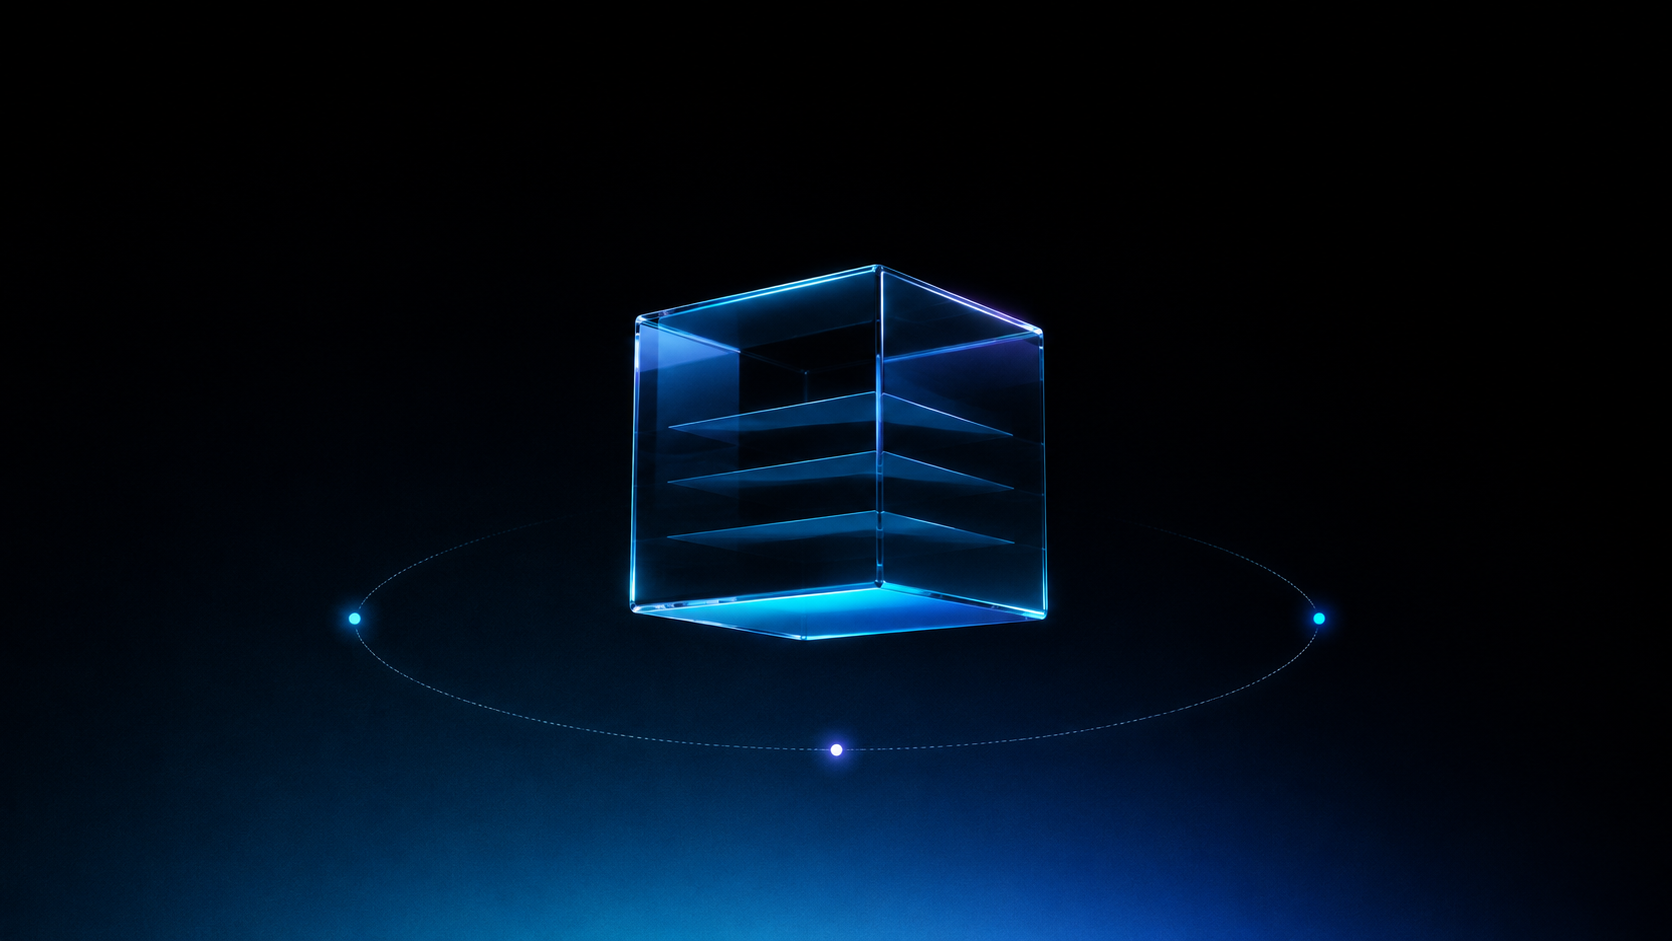
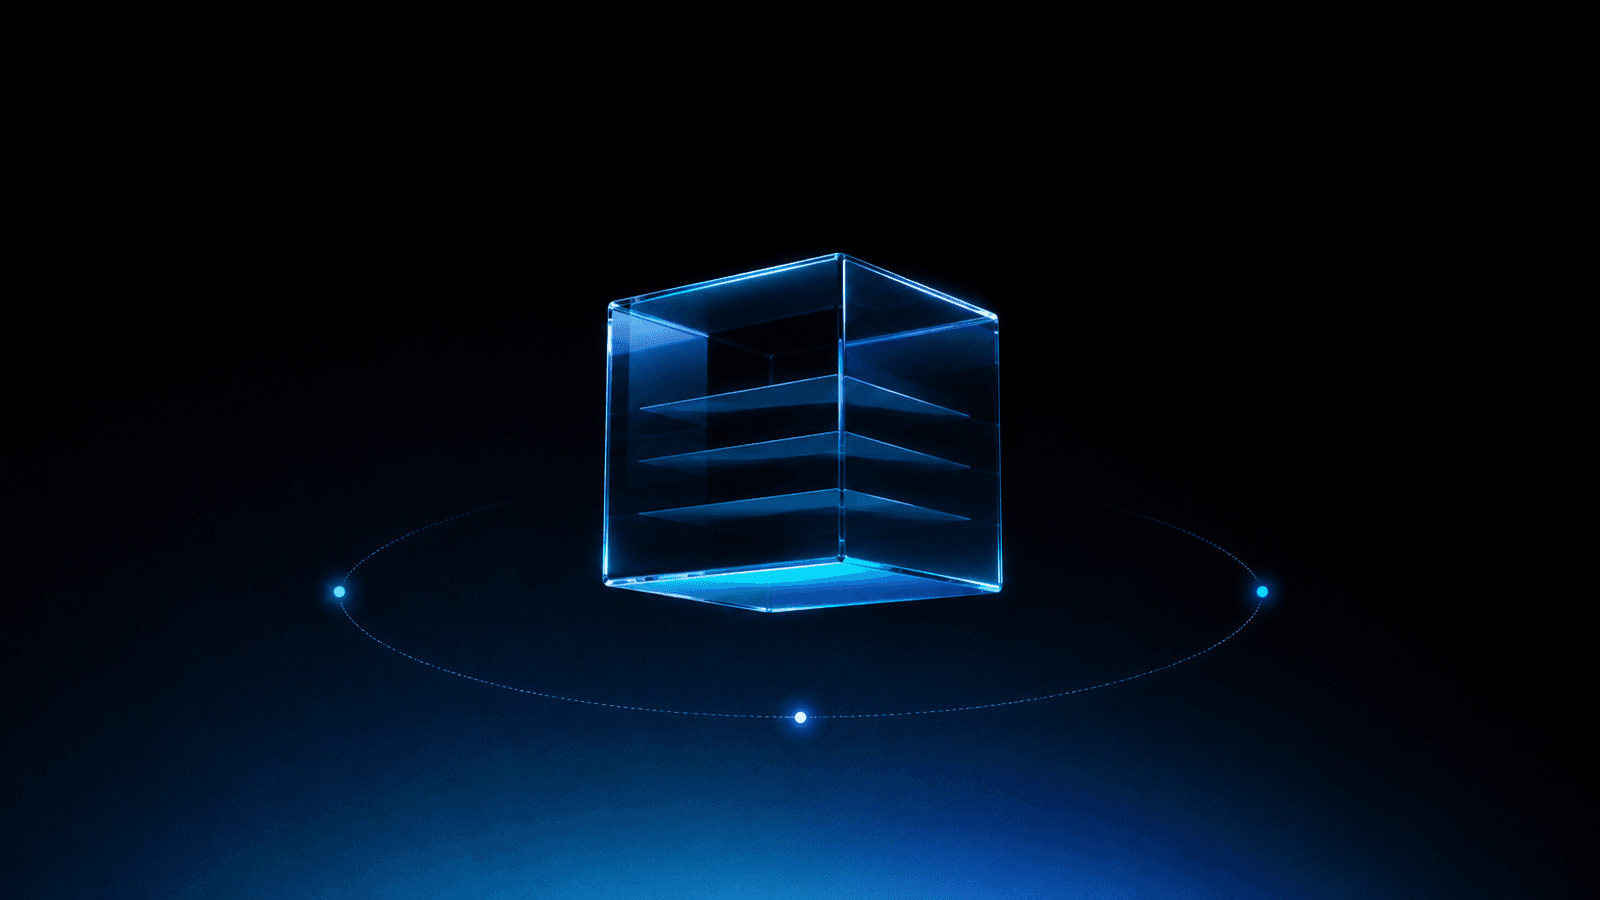
Perf + post cards: compress every public PNG (1.5MB avg -> 350KB, samp-chat 2.9MB -> 42KB) + WebP siblings via scripts/compress-images.mjs; bigger bolder Apple-spec headings on post cards; faint eye+view-count via abacus.jasoncameron.dev (free counter, no signup); shorter treatment-estimator title

diff --git a/src/pages/posts/treatment-estimator.md b/src/pages/posts/treatment-estimator.md
@@ -1,5 +1,5 @@
 ---
-title: "How I rebuilt a decade-old quoting tool so the price guarantee is a DB invariant, not a PDF claim"
+title: "How I rebuilt a 10-year-old quoting tool with a real price lock"
 date: "2026-05-18"
 layout: ../../layouts/PostLayout.astro
 description: "A decade-old quoting tool, rebuilt around a Postgres trigger that makes the 6-month price guarantee a real database invariant. One month of work versus ten years of attempts."
